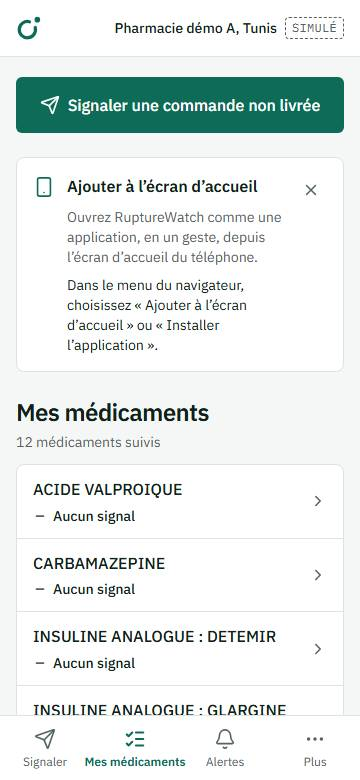
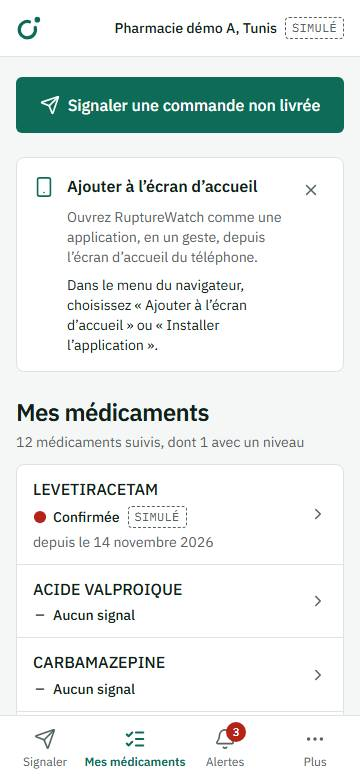
Showcase: the confirmed medicine is LEVETIRACETAM, an antiepileptic; verify:clean never resets a showcase molecule; previews regenerated

diff --git a/tests/e2e/core-flows.spec.ts b/tests/e2e/core-flows.spec.ts
@@ -23,7 +23,8 @@ test.describe('pharmacy report, then coordination', () => {
     await expect(page).toHaveURL(/\/pharmacie$/);
 
     await page.goto('/pharmacie/signaler');
-    const followed = page.locator('section[aria-labelledby="choix-suivis"] a').first();
+    // Never the showcase medicine (followed too): its simulated history stays untouched.
+    const followed = page.locator('section[aria-labelledby="choix-suivis"] a').filter({ hasNotText: SHOWCASE_NAME }).first();
     await expect(followed).toBeVisible();
     reported = (await followed.locator('span.text-lg').first().innerText()).trim();
 
@@ -59,8 +60,9 @@ test.describe('scenario', () => {
   });
 });
 
-// AMLODIPINE: the demo shortage, "confirmée" on the live site (scripts/demo-shortage.ts).
-const AMLODIPINE = '8d2608a4-3287-4dce-9eb9-bb732fd9bb26';
+// LEVETIRACETAM: the demo shortage, "confirmée" on the live site (lib/demo/shortage.ts).
+const SHOWCASE = '75077225-938d-4278-9e21-51de44d88a9f';
+const SHOWCASE_NAME = 'LEVETIRACETAM';
 const ARRIVAL_LINE = 'Arrivage annoncé par la centrale d’achat pour le';
 
 /** A Tunis date `days` ahead, as YYYY-MM-DD. */
@@ -74,17 +76,17 @@ test.describe('patient request', () => {
   test('4. a patient request, a pharmacy answer, the pharmacy on the map', async ({ browser }) => {
     // The patient: no account, a fresh browser (a new random device id).
     const patient = await (await browser.newContext()).newPage();
-    await patient.goto(`/medicaments/${AMLODIPINE}/demande`);
+    await patient.goto(`/medicaments/${SHOWCASE}/demande`);
     await patient.getByLabel('Ou choisissez votre gouvernorat').selectOption({ label: 'Tunis' });
     await patient.getByRole('button', { name: 'Envoyer la demande' }).click();
     await expect(patient).toHaveURL(/\/demandes\/[0-9a-f-]+$/, { timeout: 30_000 });
     await expect(patient.getByText('Pharmacie démo A, Tunis')).toHaveCount(0);
 
-    // The pharmacy answers the newest AMLODIPINE request, showing its name.
+    // The pharmacy answers the newest request for the showcase medicine, showing its name.
     const pharmacy = await (await browser.newContext()).newPage();
     await signInAs(pharmacy, 'Pharmacie (Tunis)');
     await pharmacy.goto('/pharmacie/demandes');
-    const row = pharmacy.locator('li').filter({ hasText: 'AMLODIPINE' }).last();
+    const row = pharmacy.locator('li').filter({ hasText: SHOWCASE_NAME }).last();
     await row.getByRole('button', { name: 'Disponible, me montrer au patient' }).click();
     await expect(pharmacy.getByText('Réponse envoyée : le patient voit votre pharmacie sur sa carte.')).toBeVisible();
 
@@ -101,23 +103,23 @@ test.describe('institutions', () => {
     const central = await (await browser.newContext()).newPage();
     await signInAs(central, 'Pharmacie centrale');
     await expect(central).toHaveURL(/\/centrale/);
-    const item = central.locator(`#m-${AMLODIPINE}`);
+    const item = central.locator(`#m-${SHOWCASE}`);
     await expect(item.getByText('Confirmée', { exact: true })).toBeVisible();
     await item.getByText('Annoncer un arrivage').click();
     await item.getByLabel('Date d’arrivée prévue').fill(tunisDay(10));
     await item.getByLabel('un à trois mois de besoins').check();
     await item.getByRole('button', { name: 'Annoncer l’arrivage' }).click();
     await expect(central).toHaveURL(/annonce=ok/);
-    await expect(central.getByText('Arrivage annoncé pour AMLODIPINE.')).toBeVisible();
-    await expect(central.locator(`#m-${AMLODIPINE}`).getByText('Confirmée', { exact: true })).toBeVisible();
+    await expect(central.getByText(`Arrivage annoncé pour ${SHOWCASE_NAME}.`)).toBeVisible();
+    await expect(central.locator(`#m-${SHOWCASE}`).getByText('Confirmée', { exact: true })).toBeVisible();
 
     const pharmacy = await (await browser.newContext()).newPage();
     await signInAs(pharmacy, 'Pharmacie (Tunis)');
-    await pharmacy.goto(`/pharmacie/molecule/${AMLODIPINE}`);
+    await pharmacy.goto(`/pharmacie/molecule/${SHOWCASE}`);
     await expect(pharmacy.getByText(ARRIVAL_LINE, { exact: false })).toBeVisible();
 
     const visitor = await (await browser.newContext()).newPage();
-    await visitor.goto(`/medicaments/${AMLODIPINE}`);
+    await visitor.goto(`/medicaments/${SHOWCASE}`);
     await expect(visitor.getByText(ARRIVAL_LINE, { exact: false })).toBeVisible();
     await expect(visitor.getByText('Rupture confirmée', { exact: false }).first()).toBeVisible();
   });

diff --git a/scripts/clean-verification.ts b/scripts/clean-verification.ts
@@ -17,13 +17,21 @@
 //     they stay unless asked: never use --requests once real patients use the site.
 //   - the signal state (alerts, event log, signal row) of every molecule those reports touched,
 //     through reset_molecule_signal(), the only sanctioned way to clear the event log.
+// A showcase molecule of demo:national (the confirmed antiepileptic, which the one-click pharmacies
+// follow, and the four others) is never reset: that would erase its simulated history. Its test
+// reports are deleted and its signal recomputed; if the level moved, the run says to rebuild the
+// picture with demo:clear then demo:national.
 // Then restarts tester numbering at 1 (reset_tester_numbering), which does nothing while any
 // tester pharmacy remains.
 // Never run it after real testers have joined: it would remove their pharmacies too.
 
 import { readFileSync } from 'node:fs';
 import { join } from 'node:path';
+import { NATIONAL_MOLECULES } from '../lib/demo/national';
 import { DEMO_ROLES } from '../lib/demo/roles';
+import { DEMO_SHORTAGE_MOLECULE } from '../lib/demo/shortage';
+import { recomputeSignal } from '../lib/signals/recompute';
+import { supabaseSignalStore } from '../lib/signals/store';
 import { ROOT, serviceClient } from './lib/script-env';
 
 function arg(name: string): string | undefined {
@@ -58,7 +66,13 @@ async function main() {
     .in('organisation_id', [...demoPharmacies, ...testerIds])
     .gte('reported_at', since);
   if (reportError) throw new Error(reportError.message);
-  const molecules = [...new Set((reports ?? []).map((r) => r.molecule_id as string))];
+  const touched = [...new Set((reports ?? []).map((r) => r.molecule_id as string))];
+  const showcaseNames: string[] = [DEMO_SHORTAGE_MOLECULE, ...Object.values(NATIONAL_MOLECULES)];
+  const { data: showcaseRows, error: showcaseError } = await supabase.from('molecules').select('id, name').in('name', showcaseNames);
+  if (showcaseError) throw new Error(`showcase molecules: ${showcaseError.message}`);
+  const showcaseIds = new Set((showcaseRows ?? []).map((m) => m.id as string));
+  const molecules = touched.filter((id) => !showcaseIds.has(id));
+  const showcaseTouched = (showcaseRows ?? []).filter((m) => touched.includes(m.id as string));
 
   const { data: profiles } = testerIds.length
     ? await supabase.from('profiles').select('user_id').in('organisation_id', testerIds)
@@ -69,6 +83,7 @@ async function main() {
   console.log(`  tester pharmacies: ${testers?.map((o) => o.display_name).join('; ') || 'none'}`);
   console.log(`  reports: ${reports?.length ?? 0}`);
   console.log(`  molecules to reset: ${molecules.length}`);
+  for (const m of showcaseTouched) console.log(`  showcase molecule, recomputed instead of reset: ${m.name}`);
   const { data: arrivals, error: arrivalError } = await supabase
     .from('arrival_announcements')
     .select('id, expected_on, molecules ( name )')
@@ -118,6 +133,16 @@ async function main() {
   if (reports?.length) {
     const { error } = await supabase.from('reports').delete().in('id', reports.map((r) => r.id as string));
     if (error) throw new Error(`delete reports: ${error.message}`);
+  }
+  const signalStore = supabaseSignalStore(supabase);
+  for (const m of showcaseTouched) {
+    const before = await supabase.from('signals').select('level').eq('molecule_id', m.id).maybeSingle();
+    const result = await recomputeSignal(signalStore, m.id as string, new Date());
+    const was = (before.data?.level as string | undefined) ?? 'none';
+    console.log(`  ${m.name}: ${was} -> ${result.evaluation.level}`);
+    if (result.evaluation.changed) {
+      console.log('    The level moved during the run: rebuild with npm run demo:clear, then npm run demo:national.');
+    }
   }
   if (arrivals?.length) {
     const { error } = await supabase.from('arrival_announcements').delete().in('id', arrivals.map((a) => a.id as string));

diff --git a/scripts/screenshots.ts b/scripts/screenshots.ts
@@ -34,7 +34,7 @@ function arg(name: string, fallback: string): string {
 const BASE = arg('base', 'http://localhost:3000').replace(/\/$/, '');
 const PREVIEWS = args.includes('--previews');
 
-const AMLODIPINE_ID = '8d2608a4-3287-4dce-9eb9-bb732fd9bb26';
+const SHOWCASE_ID = '75077225-938d-4278-9e21-51de44d88a9f'; // LEVETIRACETAM
 const TAMOXIFEN_ID = 'e7dc2583-9c34-49e6-bc49-65a3ebcd5665';
 
 export const SHOTS: Shot[] = [
@@ -59,10 +59,10 @@ export const SHOTS: Shot[] = [
   { name: 'bibliotheque', path: '/bibliotheque' },
   { name: 'ruptures-passees', path: '/ruptures-passees' },
   { name: 'prescripteurs', path: '/prescripteurs' },
-  // Track B. Catalogue ids: AMLODIPINE (the demo's confirmed medicine) and TAMOXIFENE ("probable").
-  { name: 'medicament-statut', path: `/medicaments/${AMLODIPINE_ID}` },
-  { name: 'medicament-statut-ar', path: `/medicaments/${AMLODIPINE_ID}`, locale: 'ar' },
-  { name: 'demande', path: `/medicaments/${AMLODIPINE_ID}/demande` },
+  // Track B. Catalogue ids: LEVETIRACETAM (the demo's confirmed medicine) and TAMOXIFENE ("probable").
+  { name: 'medicament-statut', path: `/medicaments/${SHOWCASE_ID}` },
+  { name: 'medicament-statut-ar', path: `/medicaments/${SHOWCASE_ID}`, locale: 'ar' },
+  { name: 'demande', path: `/medicaments/${SHOWCASE_ID}/demande` },
   { name: 'pharmacie-demandes', path: '/pharmacie/demandes', role: 'pharmacie-tunis' },
   { name: 'prescripteurs-verification', path: `/prescripteurs?m=${TAMOXIFEN_ID}`, role: 'medecin' },
   // Part 5: the institutions' spaces, and where their work shows.
@@ -72,8 +72,8 @@ export const SHOTS: Shot[] = [
   { name: 'ordre', path: '/ordre', role: 'ordre' },
   { name: 'ordre-message', path: '/ordre/message', role: 'ordre' },
   { name: 'pharmacie-alertes-sfax', path: '/pharmacie/alertes', role: 'pharmacie-sfax' },
-  { name: 'pharmacie-medicament', path: `/pharmacie/molecule/${AMLODIPINE_ID}`, role: 'pharmacie-tunis' },
-  { name: 'vues-amlodipine', path: `/vues/${AMLODIPINE_ID}` },
+  { name: 'pharmacie-medicament', path: `/pharmacie/molecule/${SHOWCASE_ID}`, role: 'pharmacie-tunis' },
+  { name: 'vues-showcase', path: `/vues/${SHOWCASE_ID}` },
 ];
 
 /** One preview per role tile on the home page (role key: path). */

diff --git a/lib/demo/shortage.ts b/lib/demo/shortage.ts
@@ -3,9 +3,11 @@
 // other tracks' screens. Every row is origin = simulated and has a fixed id, so
 // `npm run demo:clear` removes exactly what `npm run demo:shortage` created and nothing else.
 //
-// The molecule is amlodipine: thirteen brands on the CNAM list, no tester reports or follows,
-// no past episode in data/reference/episodes.csv and no foreign notice, so the simulated
-// shortage cannot be mistaken for, or mixed with, real data. The run
+// The molecule is levetiracetam, an antiepileptic (session 6: the pilot starts with
+// antiepileptics, as Phase 2.2 says; it was amlodipine before). Six brands on the CNAM list,
+// no tester report, no past episode in data/reference/episodes.csv and no foreign notice, so the
+// simulated shortage cannot be mistaken for, or mixed with, real data. The two one-click
+// pharmacies follow it (supabase/seed/demo-follows.json), so their alerts show it. The run
 // refuses to start if anyone else has reported it or it already has a signal, so clearing
 // returns the database to exactly where it was.
 //
@@ -14,7 +16,7 @@
 import { createHash } from 'node:crypto';
 import { recomputeSignal, type RecomputeResult, type SignalStore } from '@/lib/signals/recompute';
 
-export const DEMO_SHORTAGE_MOLECULE = 'AMLODIPINE';
+export const DEMO_SHORTAGE_MOLECULE = 'LEVETIRACETAM';
 
 const HOUR = 3_600_000;
 const DAY = 24 * HOUR;

diff --git a/scripts/demo-national.ts b/scripts/demo-national.ts
@@ -1,5 +1,5 @@
 // npm run demo:national
-// Builds the national demo picture (lib/demo/national.ts): the demo shortage (amlodipine,
+// Builds the national demo picture (lib/demo/national.ts): the demo shortage (levetiracetam,
 // "confirmée") if it is not in place yet, then one "probable" held by gate two, two "sous
 // surveillance" (local reports; a foreign notice alone), one "levée", patient requests and two
 // wholesaler decisions, with their history over the last 30 days. Every row is

diff --git a/lib/demo/national.ts b/lib/demo/national.ts
@@ -1,4 +1,4 @@
-// The national demo picture: around the demo shortage (amlodipine, "confirmée"), four more
+// The national demo picture: around the demo shortage (levetiracetam, "confirmée"), four more
 // simulated situations, each showing one rule at work, with their history over the last 30 days:
 //
 //   TAMOXIFENE      "probable"            five pharmacies, all in Sfax: gate two holds it below

diff --git a/tests/e2e/README.md b/tests/e2e/README.md
@@ -15,12 +15,12 @@ All of it comes from demo accounts, whose organisations are marked `simulated`:
 
 | Test | Rows created |
 | --- | --- |
-| 1. Pharmacy report | One `reports` row (`not_delivered`) from "Pharmacie démo A, Tunis" for its first followed medicine; possibly a `signals` row, a `signal_events` row and `alerts` rows if the level changes. |
+| 1. Pharmacy report | One `reports` row (`not_delivered`) from "Pharmacie démo A, Tunis" for its first followed medicine other than the showcase LEVETIRACETAM; possibly a `signals` row, a `signal_events` row and `alerts` rows if the level changes. |
 | 2. Coordination | Nothing. |
 | 3. Scenario | Nothing: the scenario runs in the browser. |
-| 4. Patient request | One `availability_requests` row (AMLODIPINE, Tunis) and one answer from "Pharmacie démo A, Tunis", name shown. A browser can ask once a day per medicine: each run uses a fresh context. |
-| 5. Arrival | One `arrival_announcements` row on AMLODIPINE from "Centrale d'achat démo, Tunis", 10 days ahead. The level does not change. |
+| 4. Patient request | One `availability_requests` row (LEVETIRACETAM, Tunis) and one answer from "Pharmacie démo A, Tunis", name shown. A browser can ask once a day per medicine: each run uses a fresh context. |
+| 5. Arrival | One `arrival_announcements` row on LEVETIRACETAM from "Centrale d'achat démo, Tunis", 10 days ahead. The level does not change. |
 | 6. Ordre message | One `order_messages` row to Sfax from "Conseil régional démo, Sfax". |
 | 7. Note de situation | Nothing. |
 
-Note the time before a run. The team lead removes the rows with `npm run verify:clean -- --since <time> --apply` (reports, follows, arrival announcements and Ordre messages; a patient request is anonymous demand and expires on its own).
+Note the time before a run. The team lead removes the rows with `npm run verify:clean -- --since <time> --apply` (reports, follows, arrival announcements, Ordre messages and the one-click pharmacies' answers; add `--requests` to remove the test's patient request too, before real patients use the site).

diff --git a/docs/DECISIONS.md b/docs/DECISIONS.md
@@ -2,6 +2,15 @@
 
 Newest first. Each entry: what was decided, and why.
 
+## 2026-11-24, session 6
+
+### The showcase's "confirmée" medicine is an antiepileptic: LEVETIRACETAM (part 2)
+
+- Everything we submitted says the pilot starts with antiepileptics (Phase 2.2 names carbamazepine and levetiracetam); the national picture confirmed amlodipine. `DEMO_SHORTAGE_MOLECULE` is now `LEVETIRACETAM`: six brands on the CNAM list (Antiomal, Epilepta, Epitam, Epixx, Levet, Vetira), no report, notice, request or past episode of its own on the live project. The 23 simulated reports, 13 governorates, 8 patient requests and the applied wholesaler split are unchanged; only the molecule moved. The four other showcase medicines are unchanged.
+- Not carbamazepine: it has a real past episode (Tégrétol LP, December 2022) in `data/reference/episodes.csv`, shown on `/ruptures-passees`. A simulated "confirmée" next to a real archived shortage on the same medicine would mix the two. The handoff also keys the draft playbook to levetiracetam.
+- The two one-click pharmacies follow levetiracetam (seed), so their alerts show the showcase. Two consequences, both handled: end-to-end test 1 now reports the first followed medicine other than the showcase, and `verify:clean` never resets a showcase molecule (that would erase its simulated history): it deletes the test reports, recomputes the signal and says to rebuild with `demo:clear` then `demo:national` if the level moved.
+- `verify:clean` also removes answers by the one-click pharmacies, and with `--requests` the patient requests of origin `tester` made by an end-to-end run (never to use once real patients use the site).
+
 ## 2026-11-23, session 5
 
 ### Three institutions' spaces: Ministère, Pharmacie centrale, Ordre des pharmaciens (part 5)
